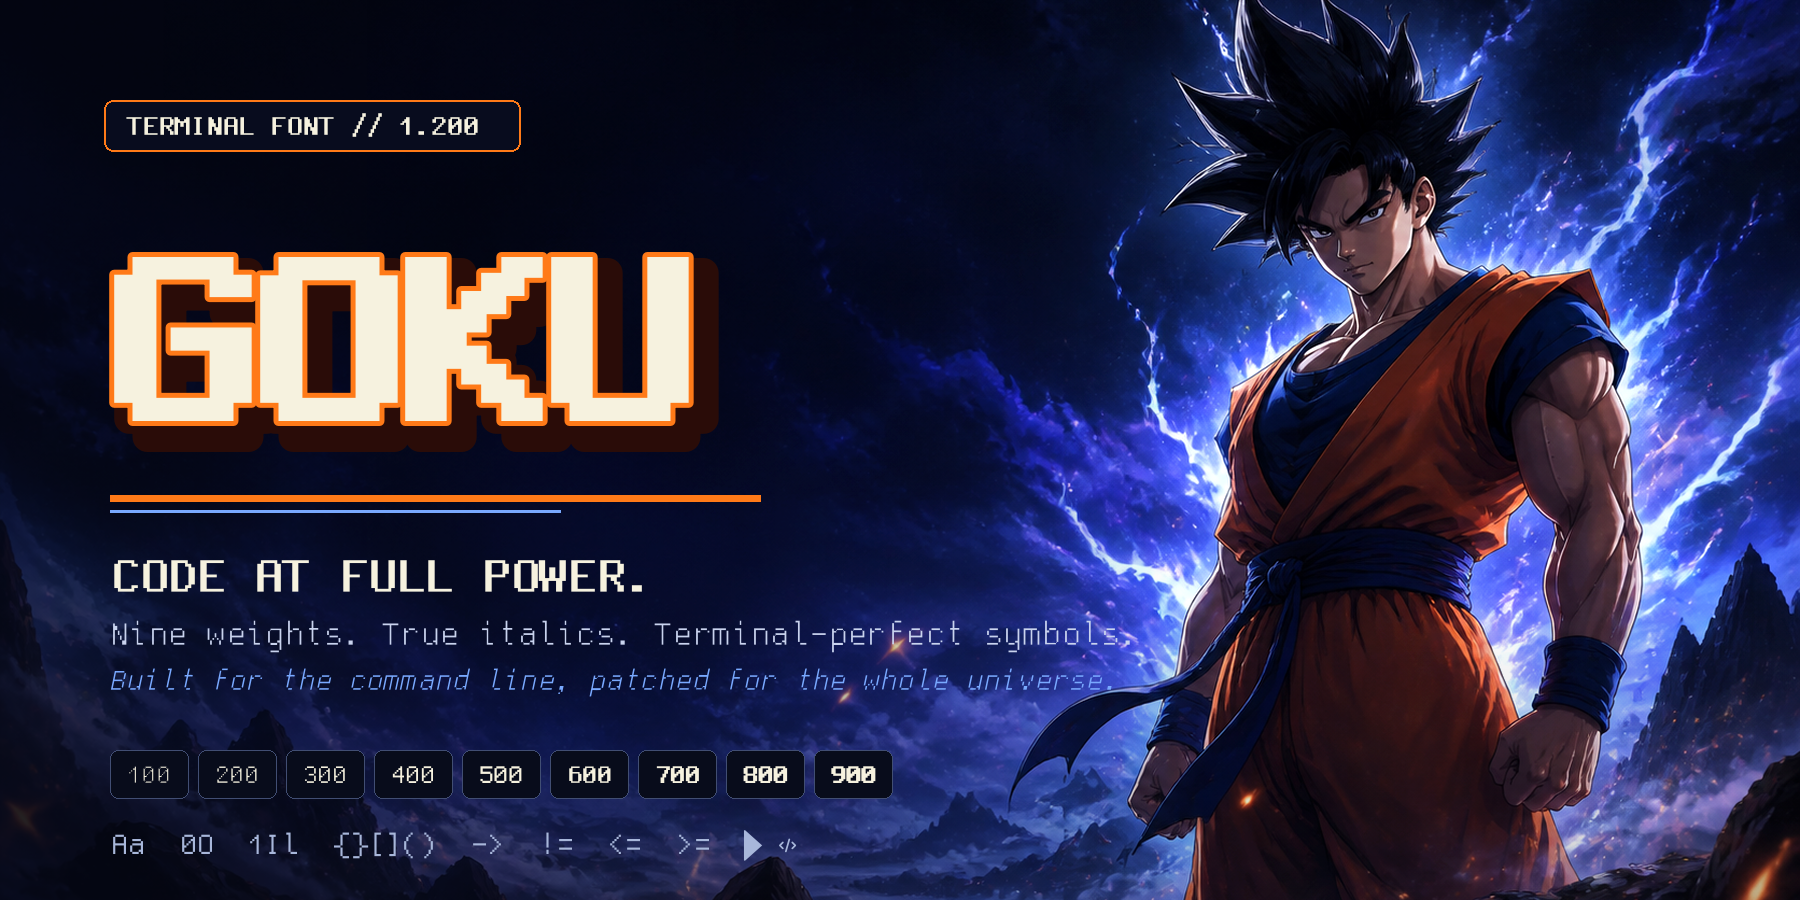
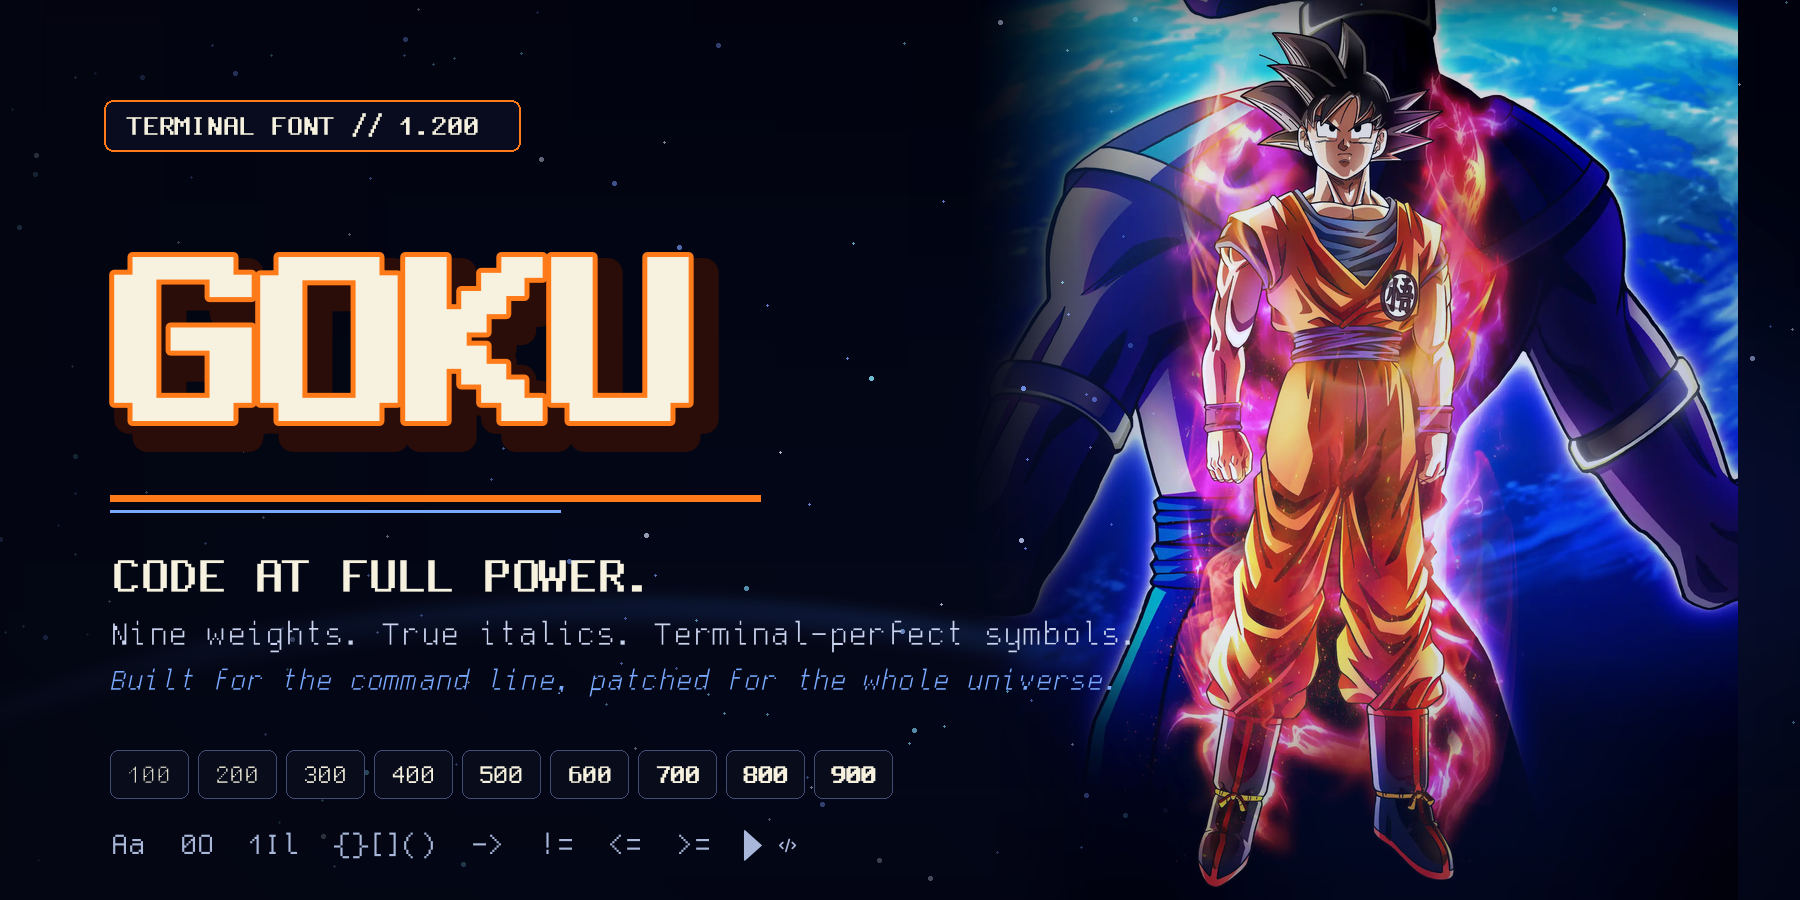
art: use official anime hero artwork

diff --git a/THIRD_PARTY_NOTICES.md b/THIRD_PARTY_NOTICES.md
@@ -27,3 +27,11 @@ Nerd Fonts' license audit is available at:
 <https://github.com/ryanoasis/nerd-fonts/blob/v3.4.0/license-audit.md>
 
 Nerd Fonts project: <https://github.com/ryanoasis/nerd-fonts>
+
+## Promotional artwork
+
+`artwork/01-goku-header.png` adapts character artwork from the official
+[Dragon Ball Super: Beerus](https://dragonball-super.com/en/) key visual.
+Dragon Ball character artwork is © BIRD STUDIO/SHUEISHA, TOEI ANIMATION. It is
+promotional repository artwork only, is not embedded in `Goku.ttc`, and is not
+covered by the font-source licenses above.

diff --git a/README.md b/README.md
@@ -4,6 +4,12 @@
   <img src="artwork/01-goku-header.png" alt="Goku terminal font — code at full power" width="100%">
 </p>
 
+<p align="center"><sub>
+Character artwork adapted from the official
+<a href="https://dragonball-super.com/en/">Dragon Ball Super: Beerus</a>
+key visual. © BIRD STUDIO/SHUEISHA, TOEI ANIMATION.
+</sub></p>
+
 Goku is a vector, monospaced terminal font derived from the handcrafted Gohu
 uni14 bitmap design. The release is one portable TrueType Collection:
 `Goku.ttc`.
